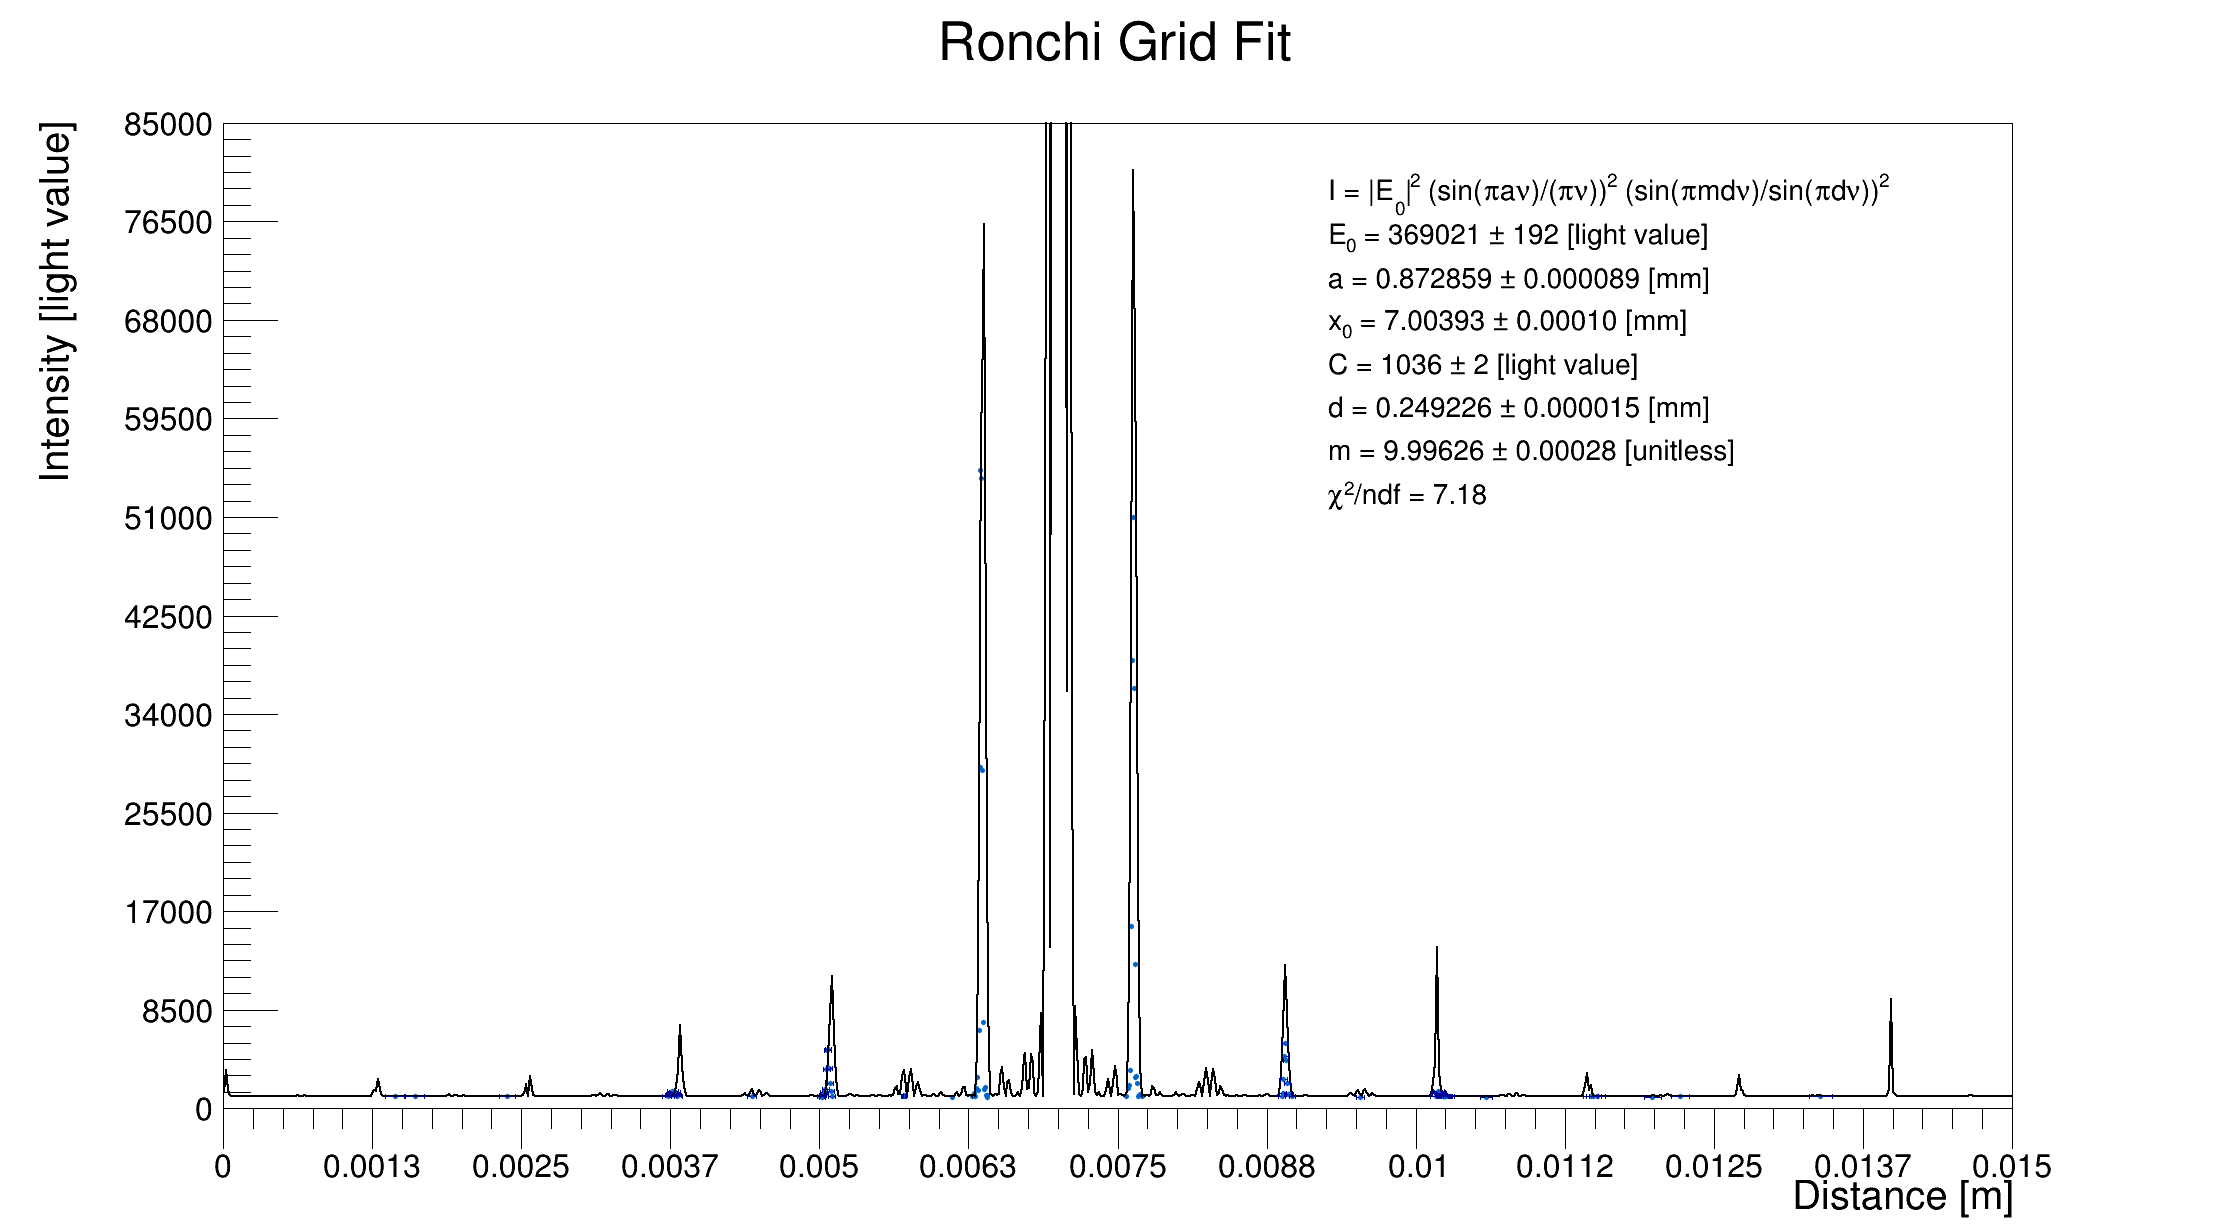
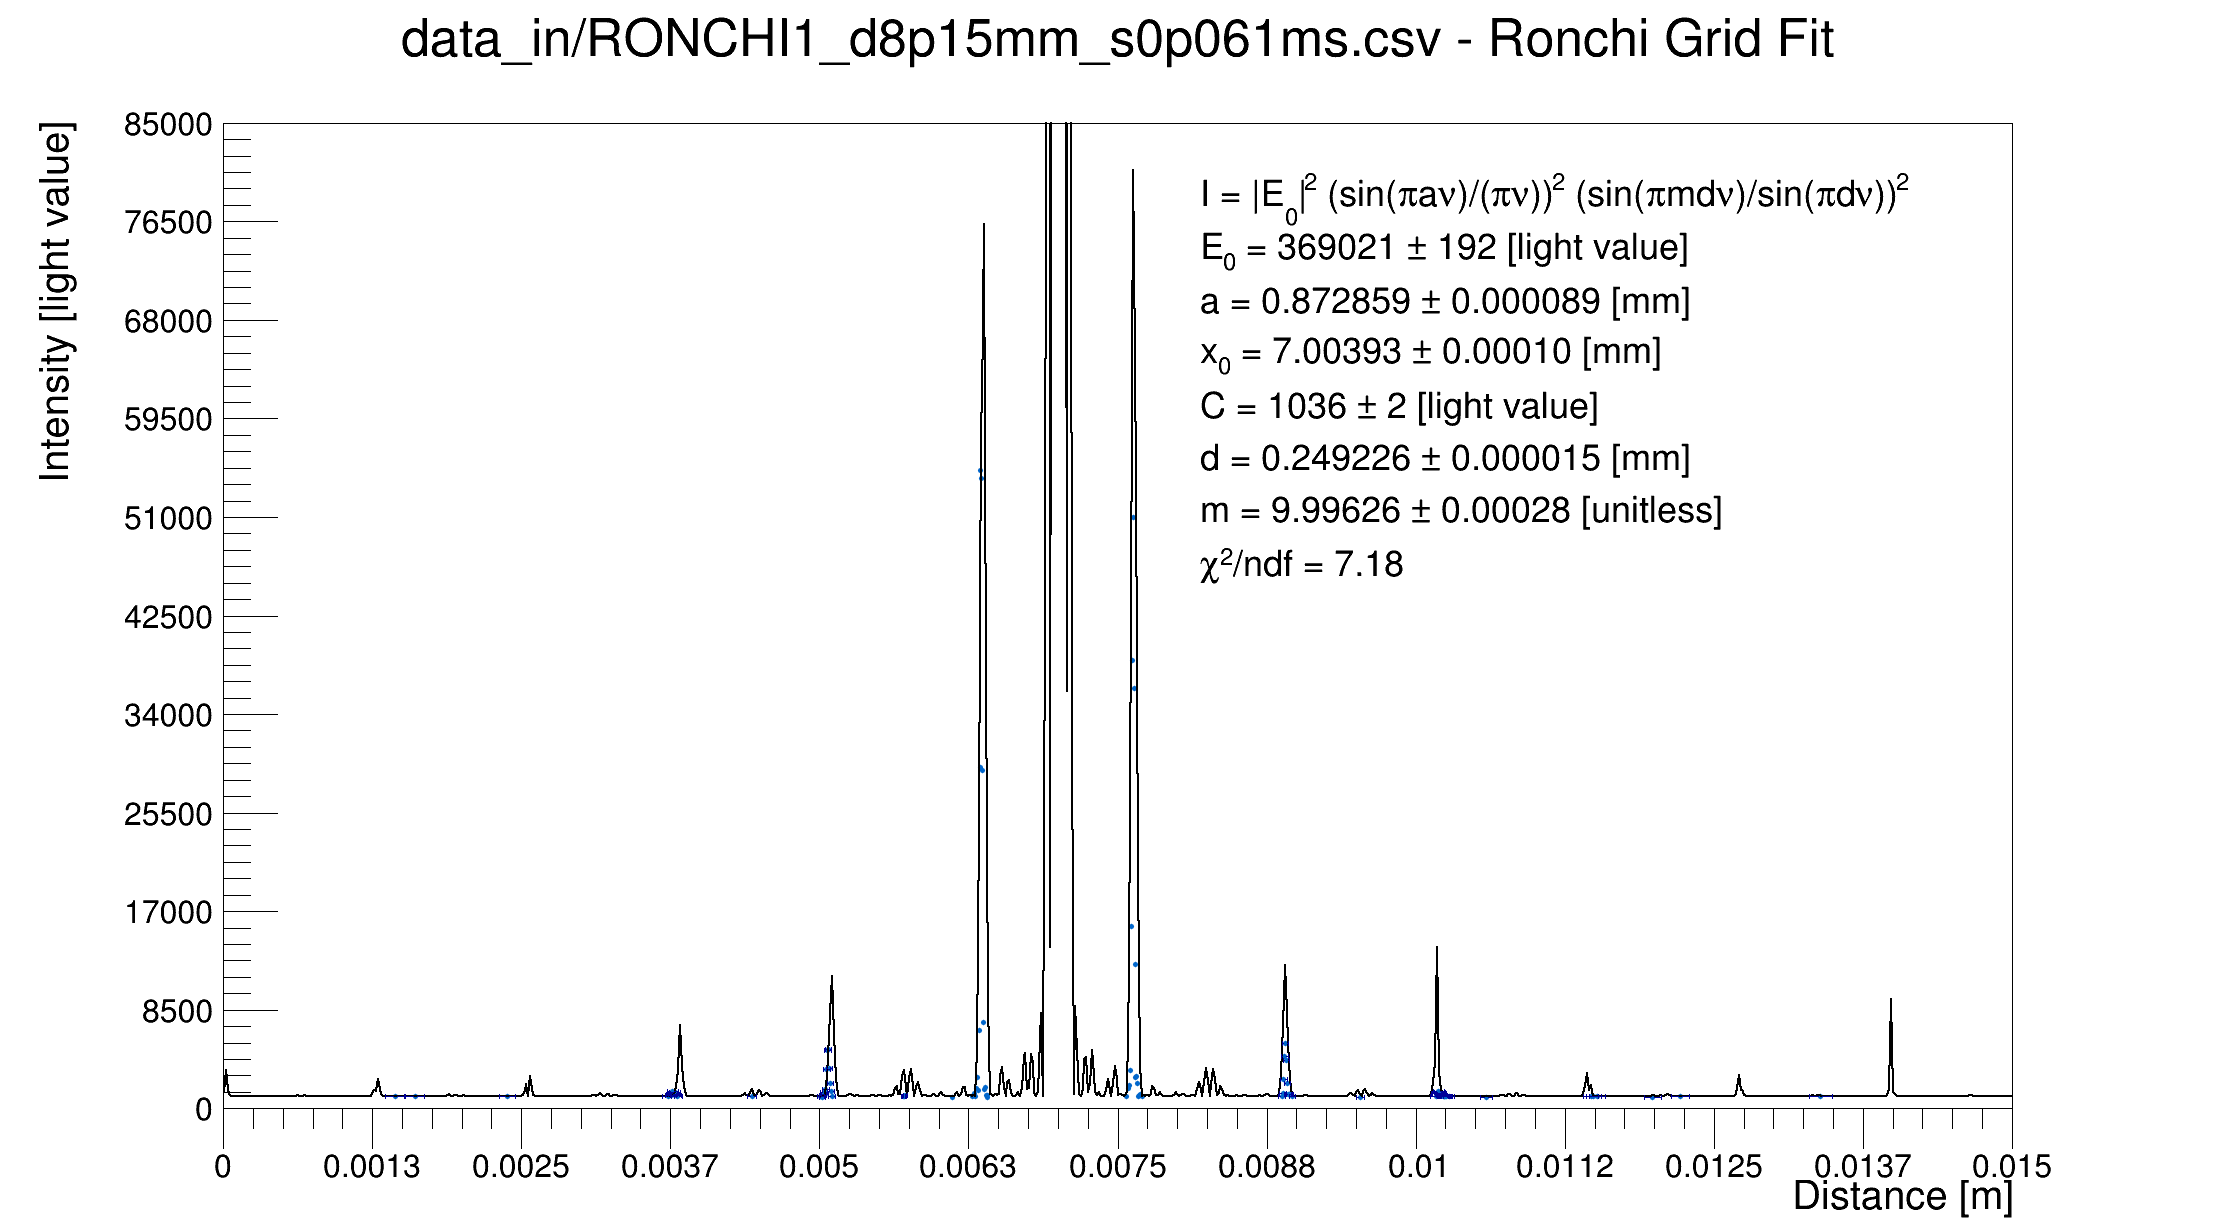
fixed graph titles

Changed region(s): [[0.5246, 0.1234, 0.864, 0.4627], [0.1852, 0.0, 0.8332, 0.0617]]

diff --git a/main/ronchi_airy_fitter.cpp b/main/ronchi_airy_fitter.cpp
@@ -50,6 +50,7 @@ int main(){
 	int yNdiv = -610;											// Number of divisions in y axis, root notation
 	int fNpoints = 1000;										// Number of points used in the display of the fitting function.
 	float textLocation[4] = {0.5,0.5,0.9,0.9};					// Relative coordinates of the text, {x1rel,y1rel,x2rel,y2rel}
+	int imageScaling = 140;
 
 
 	//---------------------------------------------------------------
@@ -130,7 +131,7 @@ int main(){
 	printf(" ]\n");
 
 	// Plot and Fit
-	TCanvas* C = new TCanvas("C", "Canvas", 16*70, 9*70);
+	TCanvas* C = new TCanvas("C", "Canvas", 16*imageScaling, 9*imageScaling);
     TGraphErrors* g = new TGraphErrors(avgRadialValues.size(), radialPos.data(), avgRadialValues.data(), radialPos_err.data(), avgRadialValues_err.data());
     TF1* f = new TF1("AIRY" , "pow([0]*[1]*[3]/x,2)*pow(TMath::BesselJ1(2*TMath::Pi()*[1]*x/[3]),2) + [2]" , 0 , pixelToDist*radius);
 	
@@ -138,11 +139,11 @@ int main(){
 	
 	f->FixParameter(3,lambdaf);
 
-    g->SetTitle("Airy Pattern Radial Average Plot");
+    g->SetTitle( (dataFile+" - Airy Pattern Radial Average Fit").c_str() );
     g->SetMarkerStyle(20);
     g->SetMarkerColor(kAzure+2);
     g->SetLineColor(kBlue+2);
-    g->SetMarkerSize(0.4);
+    g->SetMarkerSize(0.6);
 
     g->GetXaxis()->SetTitle("Distance [m]");
     g->GetXaxis()->SetLimits(0., maxDistance);
@@ -158,7 +159,7 @@ int main(){
     g->GetYaxis()->SetNdivisions(yNdiv);
 
 	f->SetLineColor(kBlack);
-    f->SetLineWidth(1);
+    f->SetLineWidth(2);
 	f->SetNpx(fNpoints);
 
     g->Fit("AIRY");

diff --git a/main/ronchi_fitter.cpp b/main/ronchi_fitter.cpp
@@ -58,7 +58,7 @@ int main(){
 	int xNdiv = -512;											// Number of divisions in x axis, root notation
 	int yNdiv = -610;											// Number of divisions in y axis, root notation
 	int fNpoints = 1000;										// Number of points used in the display of the fitting function.
-	float textLocation[4] = {0.6,0.6,0.95,0.95};					// Relative coordinates of the text, {x1rel,y1rel,x2rel,y2rel}
+	float textLocation[4] = {0.525,0.525,0.95,0.95};			// Relative coordinates of the text, {x1rel,y1rel,x2rel,y2rel}
 	int imageScaling = 140;
 
 	//---------------------------------------------------------------
@@ -104,7 +104,7 @@ int main(){
 	TCanvas* C = new TCanvas("C", "Canvas", 16*imageScaling, 9*imageScaling);
     TGraphErrors* g = new TGraphErrors(X.size(), X.data(), Y.data(), eX.data(), eY.data());
 
-    g->SetTitle("Ronchi Grid Fit");
+    g->SetTitle( (dataFile+" - Ronchi Grid Fit").c_str() );
     g->SetMarkerStyle(20);
     g->SetMarkerColor(kAzure+2);
     g->SetLineColor(kBlue+2);
@@ -142,7 +142,7 @@ int main(){
 
     TPaveText* pt = new TPaveText(textLocation[0]*maxDistance, textLocation[1]*maxLightValue, textLocation[2]*maxDistance, textLocation[3]*maxLightValue, "user");
 
-    pt->SetTextSize(0.025);
+    pt->SetTextSize(0.032);
     pt->SetFillColor(0);
     pt->SetTextAlign(12);
     pt->SetTextFont(42);
